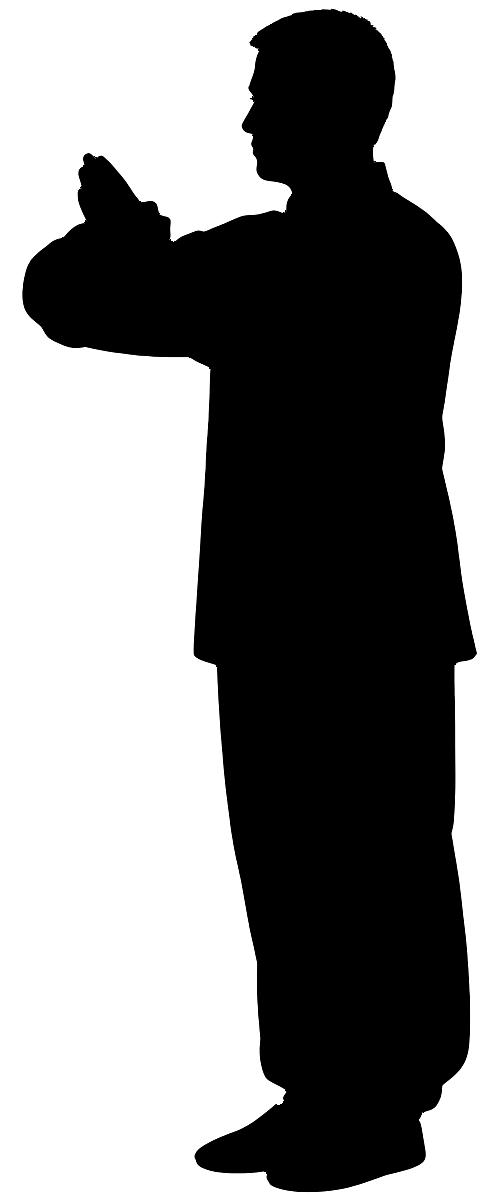
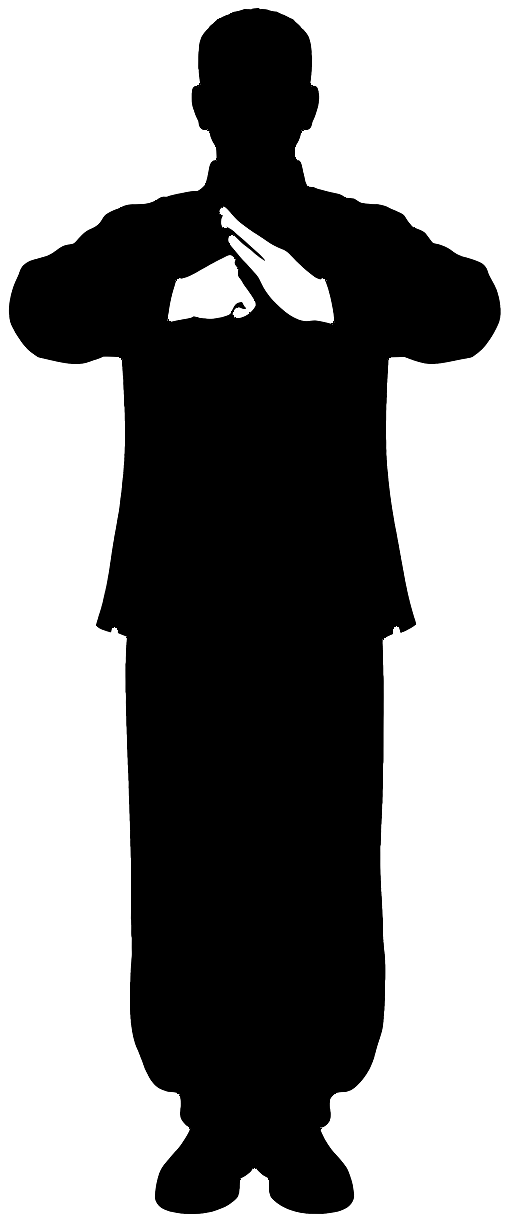
fix(assets): 抱拳剪影改用正面版、共用提示詞區塊為空字串也報錯，並移除用不到的 min_w

diff --git a/tools/silhouettes/postprocess.py b/tools/silhouettes/postprocess.py
@@ -28,7 +28,6 @@ PAD = 8
 #   close: closing radius (px) to bridge hairline white strokes inside the shape
 #   fill:  fill enclosed holes smaller than this area (px); bigger holes are kept as design cut-outs
 #   crop:  'bbox' (trim all sides) | 'rows' (keep full width, trim empty rows only)
-#   min_w: (optional, figures) pad the canvas symmetrically to at least this width, e.g. 500 = the gate's minimum side
 SEL = {
     "fig-dingzhou":  ("v3", "fig",   dict(close=3, fill=400,  crop="bbox")),
     "fig-zhenjiao":  ("v1", "fig",   dict(close=3, fill=400,  crop="bbox")),
@@ -65,7 +64,7 @@ SEL3 = {
 }
 # Batch 4 (run with --batch 4): the adult fist-and-palm salute (Task 7).
 SEL4 = {
-    "fig-salute": ("v3", "fig", dict(close=3, fill=400, crop="bbox", min_w=500)),
+    "fig-salute": ("v1", "fig", dict(close=3, fill=400, crop="bbox")),
 }
 SELECTIONS = {"1": SEL, "2": SEL2, "3": SEL3, "4": SEL4}
 
@@ -135,11 +134,8 @@ def process(name, sel, raw, out_dir, work, preview):
     touches = dict(left=bool(x0 == 0), right=bool(x1 == W - 1), top=bool(y0 == 0), bottom=bool(y1 == H - 1))
     if o["crop"] == "bbox":
         if kind == "fig":
-            sw, sh = x1 - x0 + 1, y1 - y0 + 1
-            cw = max(sw + 2 * PAD, o.get("min_w", 0))  # a narrow figure is padded (never scaled) to min_w so it keeps its native resolution
-            ox = (cw - sw) // 2
-            canvas = np.zeros((sh + 2 * PAD, cw), np.uint8)
-            canvas[PAD:-PAD, ox:ox + sw] = a[y0:y1 + 1, x0:x1 + 1]
+            canvas = np.zeros((y1 - y0 + 1 + 2 * PAD, x1 - x0 + 1 + 2 * PAD), np.uint8)
+            canvas[PAD:-PAD, PAD:-PAD] = a[y0:y1 + 1, x0:x1 + 1]
             out = canvas
         else:
             out = a[y0:y1 + 1, x0:x1 + 1]

diff --git a/tools/silhouettes/gen.py b/tools/silhouettes/gen.py
@@ -84,11 +84,11 @@ def build_prompt(prompts_file, name):
         P = json.load(f)
     a = P["assets"][name]
     p = a["prompt"]
-    # a placeholder in the prompt needs its common block: a missing key is an error, never silently an empty string
+    # a placeholder in the prompt needs its common block: a missing or empty block is an error, never silently an empty string
     for token, key in (("{FIG}", "_common_fig"), ("{KID}", "_common_kid"), ("{SCENE}", "_common_scene")):
         if token in p:
-            if key not in P:
-                raise SystemExit(f"{name}: prompt uses {token} but {key} is missing from {prompts_file}")
+            if not str(P.get(key, "")).strip():
+                raise SystemExit(f"{name}: prompt uses {token} but {key} is missing or empty in {prompts_file}")
             p = p.replace(token, P[key])
     if a.get("retry_note"):
         p += " IMPORTANT CORRECTION: " + a["retry_note"]
